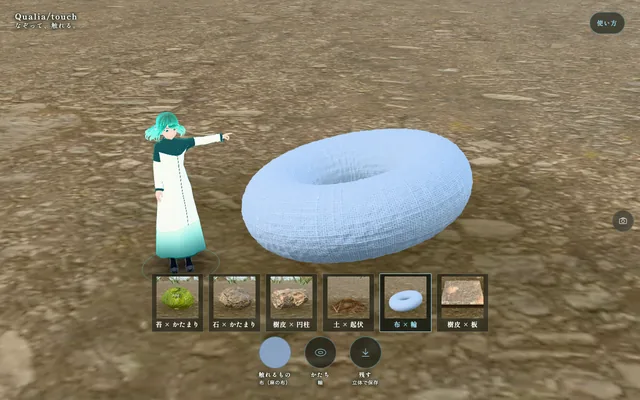
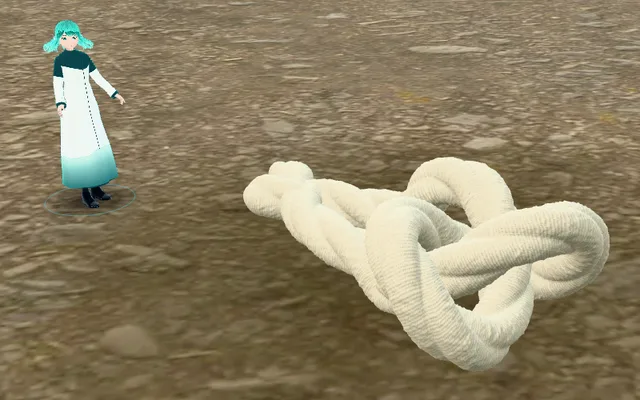
Qualia/touch: 輪（トーラス）を外し、麻縄のひと結び（三つ撚り）に。カードの画を撮り直し

diff --git a/x/10/objects.js b/x/10/objects.js
@@ -15,7 +15,7 @@ function noise3(seed) {
 // はじめの四つは mitsulab がこの場でつくる形（外の素材なし）。面のどこでも模様が同じ細かさで並び、つなぎ目が割れないように作る。器と岩は実物を測った形（Poly Haven・CC0。台帳 M-0900）
 export const OBJECTS = [
   { id: "lump", name: "かたまり", sub: "手のひらに収まる丸い塊（模型）", make: "lump", rep: [1, 1], el: .2, zoom: .74, relief: .85 },
-  { id: "ring", name: "輪", sub: "指を通せる太い輪（模型）", make: "ring", rep: [2, 1], el: .4, zoom: .78, relief: .85 },
+  { id: "rope", name: "結び目", sub: "麻縄のひと結び（三つ撚り・模型）", make: "rope", rep: [1, 1], el: .4, zoom: .7, relief: .7, tintFor: { cloth: [1.5, .98, .5] } },   // 2026-11-21 本人「ドーナツ型は削除。もっと触覚的に面白い 3D に」＝輪をやめ、撚りの溝と結び目の重なりを指でたどれる縄に
   { id: "log", name: "円柱", sub: "片手でにぎれる円柱（模型）", make: "log", rep: [1, 1], el: .2, zoom: .78, relief: .85 },
   { id: "rise", name: "起伏", sub: "手のひらほどの起伏（模型）", make: "rise", rep: [1, 1], el: .27, zoom: .8, relief: .5 },
   { id: "vase", name: "器", sub: "実物を測った花瓶", src: "models/ceramic_vase_01.gltf", rep: [2, 2], size: .55, tint: [1.7, 1.6, 1.45] },
@@ -29,7 +29,7 @@ function sheet(P, ns, nt, f, c) {
   for (let j = 0; j <= nt; j++) for (let i = 0; i <= ns; i++) { const r = f(i / ns, j / nt); P.pos.push(r[0], r[1], r[2]); P.uv.push(r[3], r[4]); P.w.push(r[5] ?? 1); }
   const id = []; for (let j = 0; j < nt; j++) for (let i = 0; i < ns; i++) { const a = o + j * (ns + 1) + i, b = a + 1, d = a + ns + 1, e = d + 1; id.push(a, d, b, b, d, e); }
   let sum = 0; const A = new THREE.Vector3(), B = new THREE.Vector3(), C = new THREE.Vector3(), q = k => new THREE.Vector3(P.pos[k * 3], P.pos[k * 3 + 1], P.pos[k * 3 + 2]);
-  for (let k = 0; k < id.length; k += 3 * 29) { A.copy(q(id[k])); B.copy(q(id[k + 1])).sub(A); C.copy(q(id[k + 2])).sub(A); sum += B.cross(C).normalize().dot(A.sub(c).normalize()); }
+  for (let k = 0; k < id.length; k += 3 * 29) { A.copy(q(id[k])); B.copy(q(id[k + 1])).sub(A); C.copy(q(id[k + 2])).sub(A); sum += B.cross(C).normalize().dot(A.sub(typeof c === "function" ? c(id[k] - o) : c).normalize()); }   // c が関数なら、頂点ごとの内側の点（管の芯）
   if (sum < 0) for (let k = 0; k < id.length; k += 3) { const t = id[k + 1]; id[k + 1] = id[k + 2]; id[k + 2] = t; }
   for (let k = 0; k < id.length; k++) P.idx.push(id[k]);
 }
@@ -81,10 +81,29 @@ const MAKE = {
     sheet(P, ns, nt, (s, t) => { const i = Math.round(s * ns), j = Math.round(t * nt), ph = s * Math.PI * 2, l = (Ln[j * (ns + 1) + i] + t * R) / 2; return [t * R * Math.cos(ph), Hh(ph, t), t * R * Math.sin(ph), .5 + l * Math.cos(ph), .5 + l * Math.sin(ph), 1 - sstep(.8, 1, t)]; }, new THREE.Vector3(0, -1, 0));
     return finish(P, 0, .012);
   },
-  // 輪：太い輪。どこにも模様の集まる所がない
-  ring(N) {
-    const g = new THREE.TorusGeometry(.27, .118, Math.round(N * .6), Math.round(N * 1.7)); g.rotateX(Math.PI / 2); g.rotateZ(.2); g.computeBoundingBox(); g.translate(0, -g.boundingBox.min.y - .104, 0);
-    return seal(g);
+  // 結び目：三つ撚りの麻縄を、ひと結び（止め結び）にして床に置いた形。撚りの溝・結び目の重なり・両はしの尾を指でたどれる
+  rope(N) {
+    const n = noise3(57), P = newP(), K = .078, pts = [];
+    const tre = t => new THREE.Vector3((Math.sin(t) + 2 * Math.sin(2 * t)) * K, (-Math.sin(3 * t) * 1.25 + 1.3) * K, (Math.cos(t) - 2 * Math.cos(2 * t)) * K);   // 止め結び（三つ葉結びを一か所で切って開いた形）。高さ＝重なりの上下
+    const t0 = 3.0 + .42, t1 = 3.0 + Math.PI * 2 - .42, a = tre(t0), b = tre(t1);   // 外の輪のはしで切り、二本の尾を外へ開く
+    const out = (p, q, rot) => { const ph = Math.atan2(p.z, p.x) + rot; return new THREE.Vector3(Math.cos(ph), 0, Math.sin(ph)); };
+    const da = out(a, b, -.62), db = out(b, a, .62);
+    const tail = (e, d, k, w) => { const s = k * .058, q = e.clone().addScaledVector(d, s); q.y = .056 + (e.y - .056) * Math.exp(-k * .9); q.addScaledVector(new THREE.Vector3(-d.z, 0, d.x), Math.sin(k * .5) * .008 * k * w); return q; };   // 尾は床へ下りて、ゆるく曲がる
+    for (let k = 9; k >= 1; k--) pts.push(tail(a, da, k, 1));
+    for (let k = 0; k <= 72; k++) pts.push(tre(t0 + (t1 - t0) * k / 72));
+    for (let k = 1; k <= 11; k++) pts.push(tail(b, db, k, -1));
+    const cv = new THREE.CatmullRomCurve3(pts, false, "centripetal"), L = cv.getLength(), R0 = .056, C = 2 * Math.PI * R0, W = 2 * Math.PI / .5;   // W＝撚りの回り方（ひと撚り 5 cm）
+    const nt = Math.round(N * 4.2), ns = Math.round(N * .5), F = cv.computeFrenetFrames(nt, false), Pp = [];
+    for (let j = 0; j <= nt; j++) Pp.push(cv.getPointAt(j / nt));
+    sheet(P, ns, nt, (s, t) => {
+      const j = Math.round(t * nt), c = Pp[j], th = s * Math.PI * 2, x = t * L, end = Math.min(x, L - x);
+      const lobe = Math.pow(.5 + .5 * Math.cos(3 * (th - W * x)), .42);   // 三本の撚り（丸い山と細い溝）
+      const cap = end < R0 ? Math.sqrt(Math.max(0, 1 - (1 - end / R0) ** 2)) : 1;   // はしは丸く閉じる（ほつれ止め）
+      const r = R0 * (.72 + .28 * lobe) * (1 + n(c.x * 9, c.y * 9, c.z * 9) * .05) * cap;
+      const N_ = F.normals[j], B_ = F.binormals[j], ox = Math.cos(th) * r, oy = Math.sin(th) * r;
+      return [c.x + N_.x * ox + B_.x * oy, c.y + N_.y * ox + B_.y * oy, c.z + N_.z * ox + B_.z * oy, (th - W * x) / (Math.PI * 2), .5 + x / C * .5, (.35 + .65 * lobe) * (1 - sstep(.5, 1, 1 - end / (R0 * 2.2)))];
+    }, k => Pp[Math.floor(k / (ns + 1))]);
+    return finish(P, .35);
   },
 };
 

diff --git a/x/10/app.js b/x/10/app.js
@@ -6,7 +6,7 @@ import { T, setLang, lang } from "./i18n.js?v=20261120u";
 import { TouchModel, Vibe, Sonic, SIZE_MM, FORCE_MAX, buildLayer, buildSTL } from "./haptics.js?v=20261105f";
 import { SOUNDS } from "./sounds.js?v=20261021";
 import { estimateFromFile, N as EN } from "./estimate.js";
-import { OBJECTS, loadGeometry, applyRelief, geometrySTL } from "./objects.js?v=20261120u";
+import { OBJECTS, loadGeometry, applyRelief, geometrySTL } from "./objects.js?v=20261121r";
 import { buildSightSpace, SKY, SUN } from "./kit/sightspace.js?v=20261120a";   // 2026-11-20 本人「sight と同じ空間で」
 
 // 形の札の絵（細い線の輪郭）
@@ -15,7 +15,7 @@ const SHAPE = {
   plate: SV("M6 24l14-7 14 7-14 7z M6 24v3l14 7 14-7v-3"),
   boulder: SV("M7 28c-1-6 3-12 9-14 4-3 10-2 13 2 4 3 5 8 3 12z M7 28h25"),
   lump: SV("M6 25c0-8 6-13 15-13s13 5 13 12-5 8-14 8S6 30 6 25z M13 20c2-3 6-4 10-4"),
-  ring: SV("M20 11c8 0 14 4 14 9s-6 9-14 9S6 25 6 20s6-9 14-9z M20 17c3 0 6 1 6 3s-3 3-6 3-6-1-6-3 3-3 6-3z"),
+  rope: SV("M4 30c5 0 8-2 11-6 3-5 9-9 13-6s0 9-5 8-7-8-3-12 8-3 10 1 3 9 10 9"),
   log: SV("M10 13h20 M10 27h20 M10 13c-3 0-4 3-4 7s1 7 4 7 M30 13c3 0 4 3 4 7s-1 7-4 7-4-3-4-7 1-7 4-7z"),
   rise: SV("M4 30c6 0 8-15 14-15s6 6 10 6 4 9 8 9z M4 30h32"),
   vase: SV("M16 6h8 M17 6c0 4-6 7-6 15s4 13 9 13 9-5 9-13-6-11-6-15"),
@@ -270,7 +270,7 @@ function relief() {
   applyRelief(objMesh.geometry, objDef.rep, (u, v) => heightAt(u * SIZE_MM, (1 - v) * SIZE_MM), params.depth / SIZE_MM * (objDef.relief || .55), objDef.pole);
   for (const k of ["map", "normalMap", "roughnessMap"]) objMat[k]?.dispose();
   objMat.map = cloneTex(mat.map, objDef.rep); objMat.normalMap = cloneTex(mat.normalMap, objDef.rep); objMat.roughnessMap = cloneTex(mat.roughnessMap, objDef.rep);
-  objMat.color.setRGB(...(objDef.tint || [1, 1, 1])); objMat.metalness = mat.metalness; objMat.roughness = mat.roughness; objMat.normalScale.copy(mat.normalScale); objMat.envMapIntensity = mat.envMapIntensity; objMat.needsUpdate = true; dirty = 2;
+  objMat.color.setRGB(...(objDef.tintFor?.[surf?.id] || objDef.tint || [1, 1, 1]));   // 縄に麻の布を貼るときは、生成りの麻の色に寄せる objMat.metalness = mat.metalness; objMat.roughness = mat.roughness; objMat.normalScale.copy(mat.normalScale); objMat.envMapIntensity = mat.envMapIntensity; objMat.needsUpdate = true; dirty = 2;
 }
 async function setObject(id) {
   if (objMesh) { scene.remove(objMesh); objMesh.geometry.dispose(); objMesh = null; objHit = null; }
@@ -333,14 +333,14 @@ for (const s of SAMPLES) {
 }
 // ---- はじめに選ぶ「触れるもの × かたち」（2026-11-20 本人「デフォルトで触覚と３dの組み合わせを選択できるguiを」）。一つめがおすすめで、開いたときから選ばれている
 // 2026-11-20 本人「犬でなく、もっと触覚が味わえる３dオブジェクトに。触覚が入れ替わって違和感ないものに」＝どの組も「その素材でできた物」に見える
-const COMBOS = [["moss", "lump"], ["stone", "lump"], ["bark", "log"], ["soil", "rise"], ["cloth", "ring"], ["bark", null]];
+const COMBOS = [["moss", "lump"], ["stone", "lump"], ["bark", "log"], ["soil", "rise"], ["cloth", "rope"], ["bark", null]];
 const HERO = !/[?&](ws|plate)=1/.test(location.search);   // 開いたとき、おすすめの組が選ばれている（触覚さがしと ?plate=1 は板から）
 const ONAME = id => id ? OBJECTS.find(o => o.id === id).name : "板";
 function markCombo() { for (const b of document.querySelectorAll("#combos .cb")) b.setAttribute("aria-pressed", String(b.dataset.s === surf?.id && (b.dataset.o || null) === (objDef?.id || null))); }
 async function setCombo(s, o, quiet) { busy(true); try { const sm = SAMPLES.find(x => x.id === s); if (surf?.id !== s) applySurface(await loadSample(sm)); if ((objDef?.id || null) !== o) await setObject(o); markCombo(); if (!quiet) { say(o ? "aoi.obj" : "aoi." + s, 6000); aoiReact(); } } finally { busy(false); } }
 { const box = $("#combos");
   if (box) for (const [s, o] of COMBOS) { const b = document.createElement("button"); b.type = "button"; b.className = "cb"; b.dataset.s = s; if (o) b.dataset.o = o; b.setAttribute("aria-pressed", "false");
-    b.innerHTML = `<img src="combo/${s}_${o || "plate"}.webp?v=20261120u" alt="" width="72" height="72"><b>${T("s." + s)} <i>×</i> <span>${ONAME(o)}</span></b>`; b.setAttribute("aria-label", `${T("s." + s)}の触れ心地 × ${ONAME(o)}の形`);
+    b.innerHTML = `<img src="combo/${s}_${o || "plate"}.webp?v=20261121r" alt="" width="72" height="72"><b>${T("s." + s)} <i>×</i> <span>${ONAME(o)}</span></b>`; b.setAttribute("aria-label", `${T("s." + s)}の触れ心地 × ${ONAME(o)}の形`);
     b.addEventListener("click", () => setCombo(s, o)); box.append(b); } }
 // ---- 下の三つの印：押すと選択肢が重なって開く。選ぶと閉じる（画面は遷移しない）
 function openTray(id) {

diff --git a/x/10/index.html b/x/10/index.html
@@ -17,7 +17,7 @@
 <link rel="stylesheet" href="tokens.css">
 <link rel="stylesheet" href="style.css?v=20261027q">
 <script type="importmap">{"imports":{"three":"./vendor/three/build/three.module.js","three/addons/":"./vendor/three/examples/jsm/","@pixiv/three-vrm":"./vendor/three-vrm/three-vrm.module.min.js"}}</script>
-<link rel="modulepreload" href="app.js?v=20261120u">
+<link rel="modulepreload" href="app.js?v=20261121r">
 <link rel="modulepreload" href="vendor/three/build/three.module.js">
 <link rel="modulepreload" href="i18n.js?v=20261120u">
 <link rel="modulepreload" href="haptics.js?v=20261105f">
@@ -128,7 +128,7 @@ body:not(.ws) #cap{bottom:calc(238px + env(safe-area-inset-bottom));font-size:13
     <p class="ml-kicker">mitsulab</p>
     <h2 class="ml-title" data-t="about.h">Qualia/touch</h2>
     <p data-t="about.lead"></p>
-    <p class="howto">選ぶ：下の左の印で、触れるもの（樹皮・石・布ほか、または手もとの画像）を。まん中の印で、形（かたまり・輪・円柱・板ほか）を。<br>なぞる：面を指でなぞると、波紋と音（振動のある端末では振動も）が返ります。面の外をなぞると向きが変わり、二本の指（ホイール）で寄れます。<br>保存：右の印で、形を STL（3D プリント）や GLB に。この端末の中でつくるだけで、送信はしません。選んだ画像も、どこにも送りません。</p>
+    <p class="howto">選ぶ：下の左の印で、触れるもの（樹皮・石・布ほか、または手もとの画像）を。まん中の印で、形（かたまり・結び目・円柱・板ほか）を。<br>なぞる：面を指でなぞると、波紋と音（振動のある端末では振動も）が返ります。面の外をなぞると向きが変わり、二本の指（ホイール）で寄れます。<br>保存：右の印で、形を STL（3D プリント）や GLB に。この端末の中でつくるだけで、送信はしません。選んだ画像も、どこにも送りません。</p>
     <h3 data-t="about.h1"></h3><p data-t="about.p1"></p>
     <h3 data-t="about.h2"></h3><p data-t="about.p2"></p>
     <h3 data-t="about.h3"></h3><p data-t="about.p3"></p>
@@ -151,7 +151,7 @@ body:not(.ws) #cap{bottom:calc(238px + env(safe-area-inset-bottom));font-size:13
   </div>
 </dialog>
 
-<script type="module" src="app.js?v=20261120u"></script>
+<script type="module" src="app.js?v=20261121r"></script>
 <script src="kit/tsugi.js" data-bottom="272" data-href="../02/" data-name="Qualia/sight" data-line="ほかの生き物の目で見る" defer></script>
 <script src="kit/ichimai.js" data-name="Qualia/touch" data-right="12" data-bottom="336" defer></script>
 </body>
